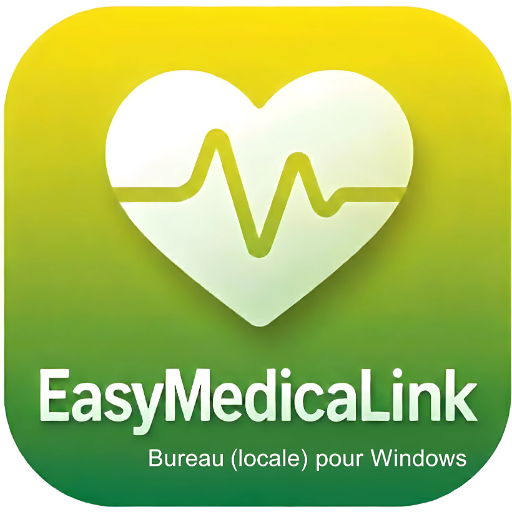
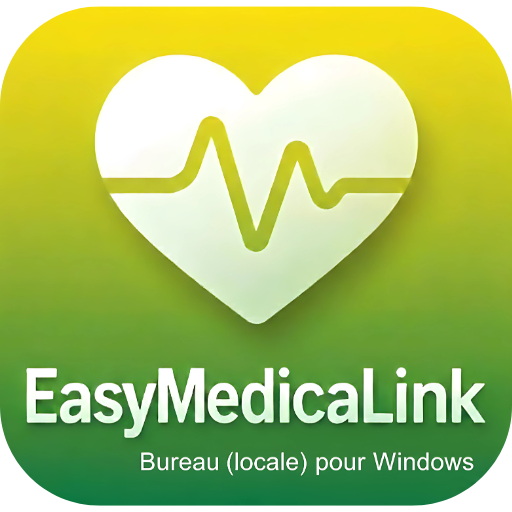
Add files via upload

diff --git a/index.html b/index.html
@@ -106,7 +106,16 @@
         /* --- ICÔNES & ANIMATIONS --- */
         i { margin-right: 8px; }
         .icon-box i, .btn-whatsapp-float i, .logo i { margin-right: 0; }
-        .logo i { margin-right: 12px; }
+        
+        /* GESTION DU LOGO IMAGE DANS LA NAVBAR */
+        .logo i { margin-right: 12px; } /* Pour l'ancien cas, sécurité */
+        .logo img { 
+            height: 45px; 
+            width: auto; 
+            margin-right: 12px; 
+            border-radius: 8px; /* Un léger arrondi sur l'icône */
+            box-shadow: 0 4px 6px rgba(0,0,0,0.2); /* Ombre légère pour ressortir sur le fond sombre */
+        }
 
         @keyframes float { 0%, 100% { transform: translateY(0); } 50% { transform: translateY(-8px); } }
         @keyframes pulse-glow { 0% { box-shadow: 0 0 0 0 rgba(102, 126, 234, 0.4); } 70% { box-shadow: 0 0 0 15px rgba(102, 126, 234, 0); } 100% { box-shadow: 0 0 0 0 rgba(102, 126, 234, 0); } }
@@ -126,8 +135,8 @@
 
         .navbar { display: flex; justify-content: space-between; align-items: center; height: 70px; }
         .logo { font-size: 1.6rem; font-weight: 700; display: flex; align-items: center; color: white; }
-        .logo i { color: var(--accent-teal); font-size: 1.8rem; filter: drop-shadow(0 0 5px rgba(11, 197, 234, 0.5)); }
-
+        /* Suppression de l'ancienne couleur d'icône car on utilise une image maintenant */
+        
         .nav-link-guide {
             color: white; font-weight: 500; padding: 8px 18px;
             background: rgba(255,255,255,0.1); border: 1px solid rgba(255,255,255,0.2);
@@ -320,7 +329,7 @@
         <div class="container">
             <nav class="navbar">
                 <div class="logo">
-                    <i class="fas fa-heartbeat"></i> 
+                    <img src="icon.png" alt="Logo EasyMedicaLink"> 
                     EasyMedicaLink
                 </div>
                 <a href="guide.html" target="_blank" class="nav-link-guide" title="Guide d'Utilisation" onclick="trackGuide(event)">
